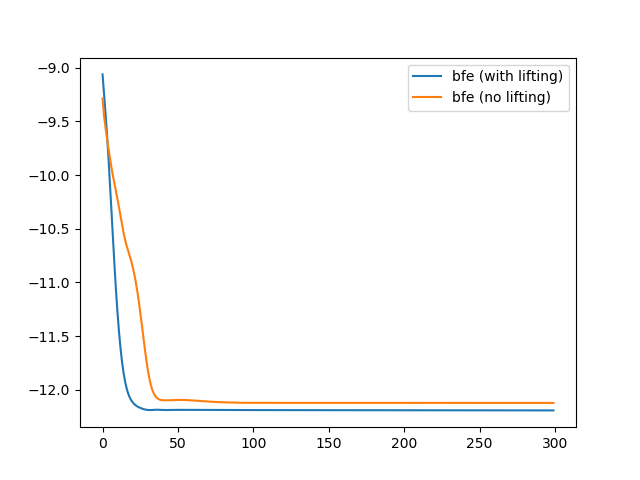
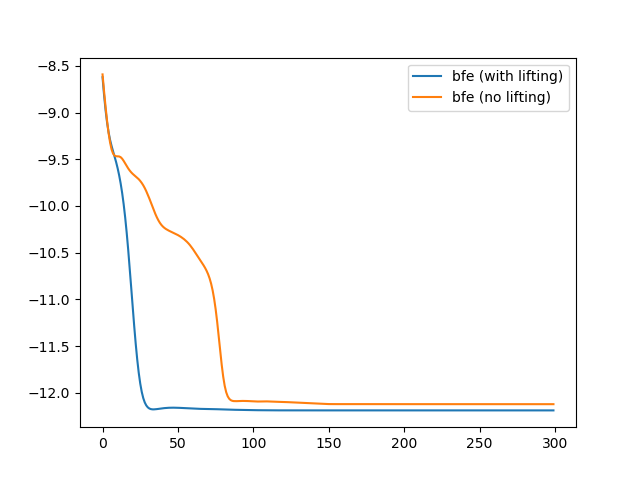
rerun tests and update plots in /osi after upgrading from tensorflow 1.10.0 to 1.13.1 (random seeds for tf.random.normal appears affected (hence results changed a bit in discrete/hybrid models)); minor fix to skip extracting log_potential_fun from potential if the former is already defined; rerun Re
GPU (20% evidence; CPU err results agree up to 7 decimal places, avg time=2151 with ~2500% utilization):
GaBP avg time 11.278130508399961
OSI avg time 255.64714097539996
OSI avg err 0.012326141556160127
OSI err std 0.0023082214342429745
OSI max err 0.571445130498986

diff --git a/osi/OneShot.py b/osi/OneShot.py
@@ -41,9 +41,10 @@ class OneShot:
             factors = list(filter(lambda f: f.potential == unique_potential, g.factors_list))
             factors_with_unique_potentials[i] = factors
 
-            unique_log_potential_fun = unique_potential.to_log_potential()
-            for factor in factors:
-                factor.log_potential_fun = unique_log_potential_fun  # reference the same object
+            if any(factor.log_potential_fun is None for factor in factors):  # skip if log_potential_fun already defined
+                unique_log_potential_fun = unique_potential.to_log_potential()
+                for factor in factors:
+                    factor.log_potential_fun = unique_log_potential_fun  # reference the same object
 
         if evidence:
             self.uncond_g = g
